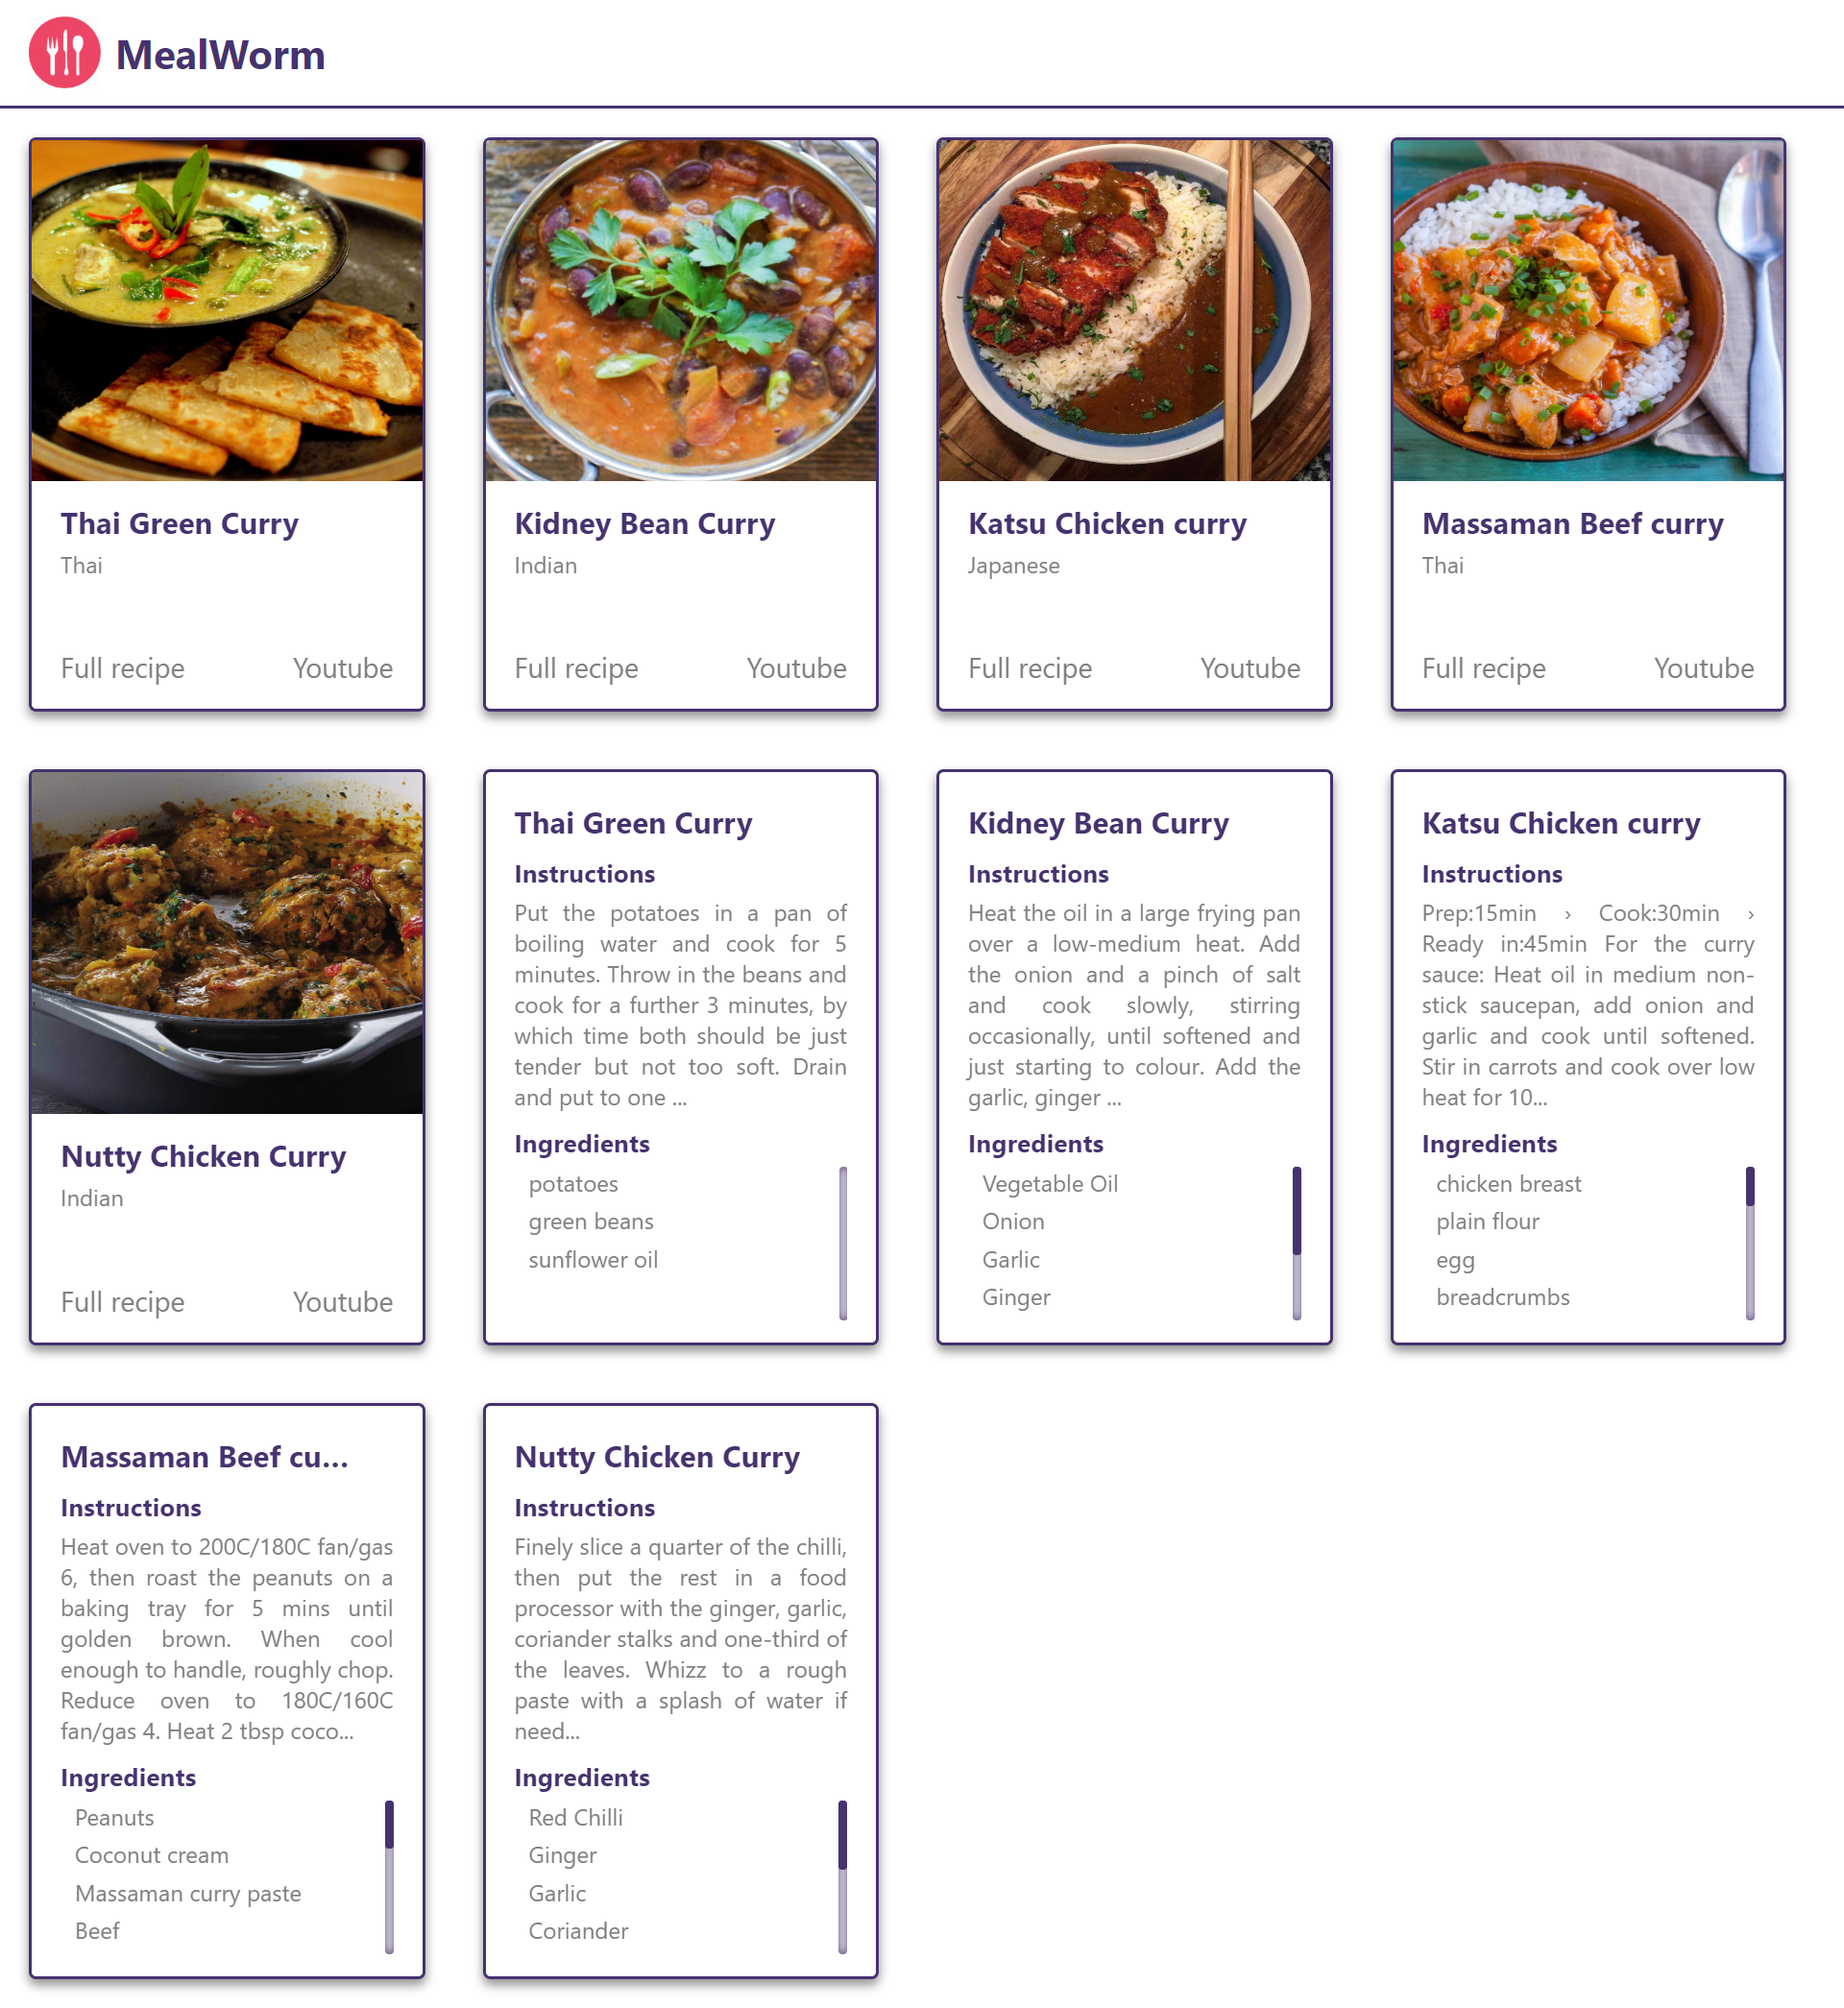
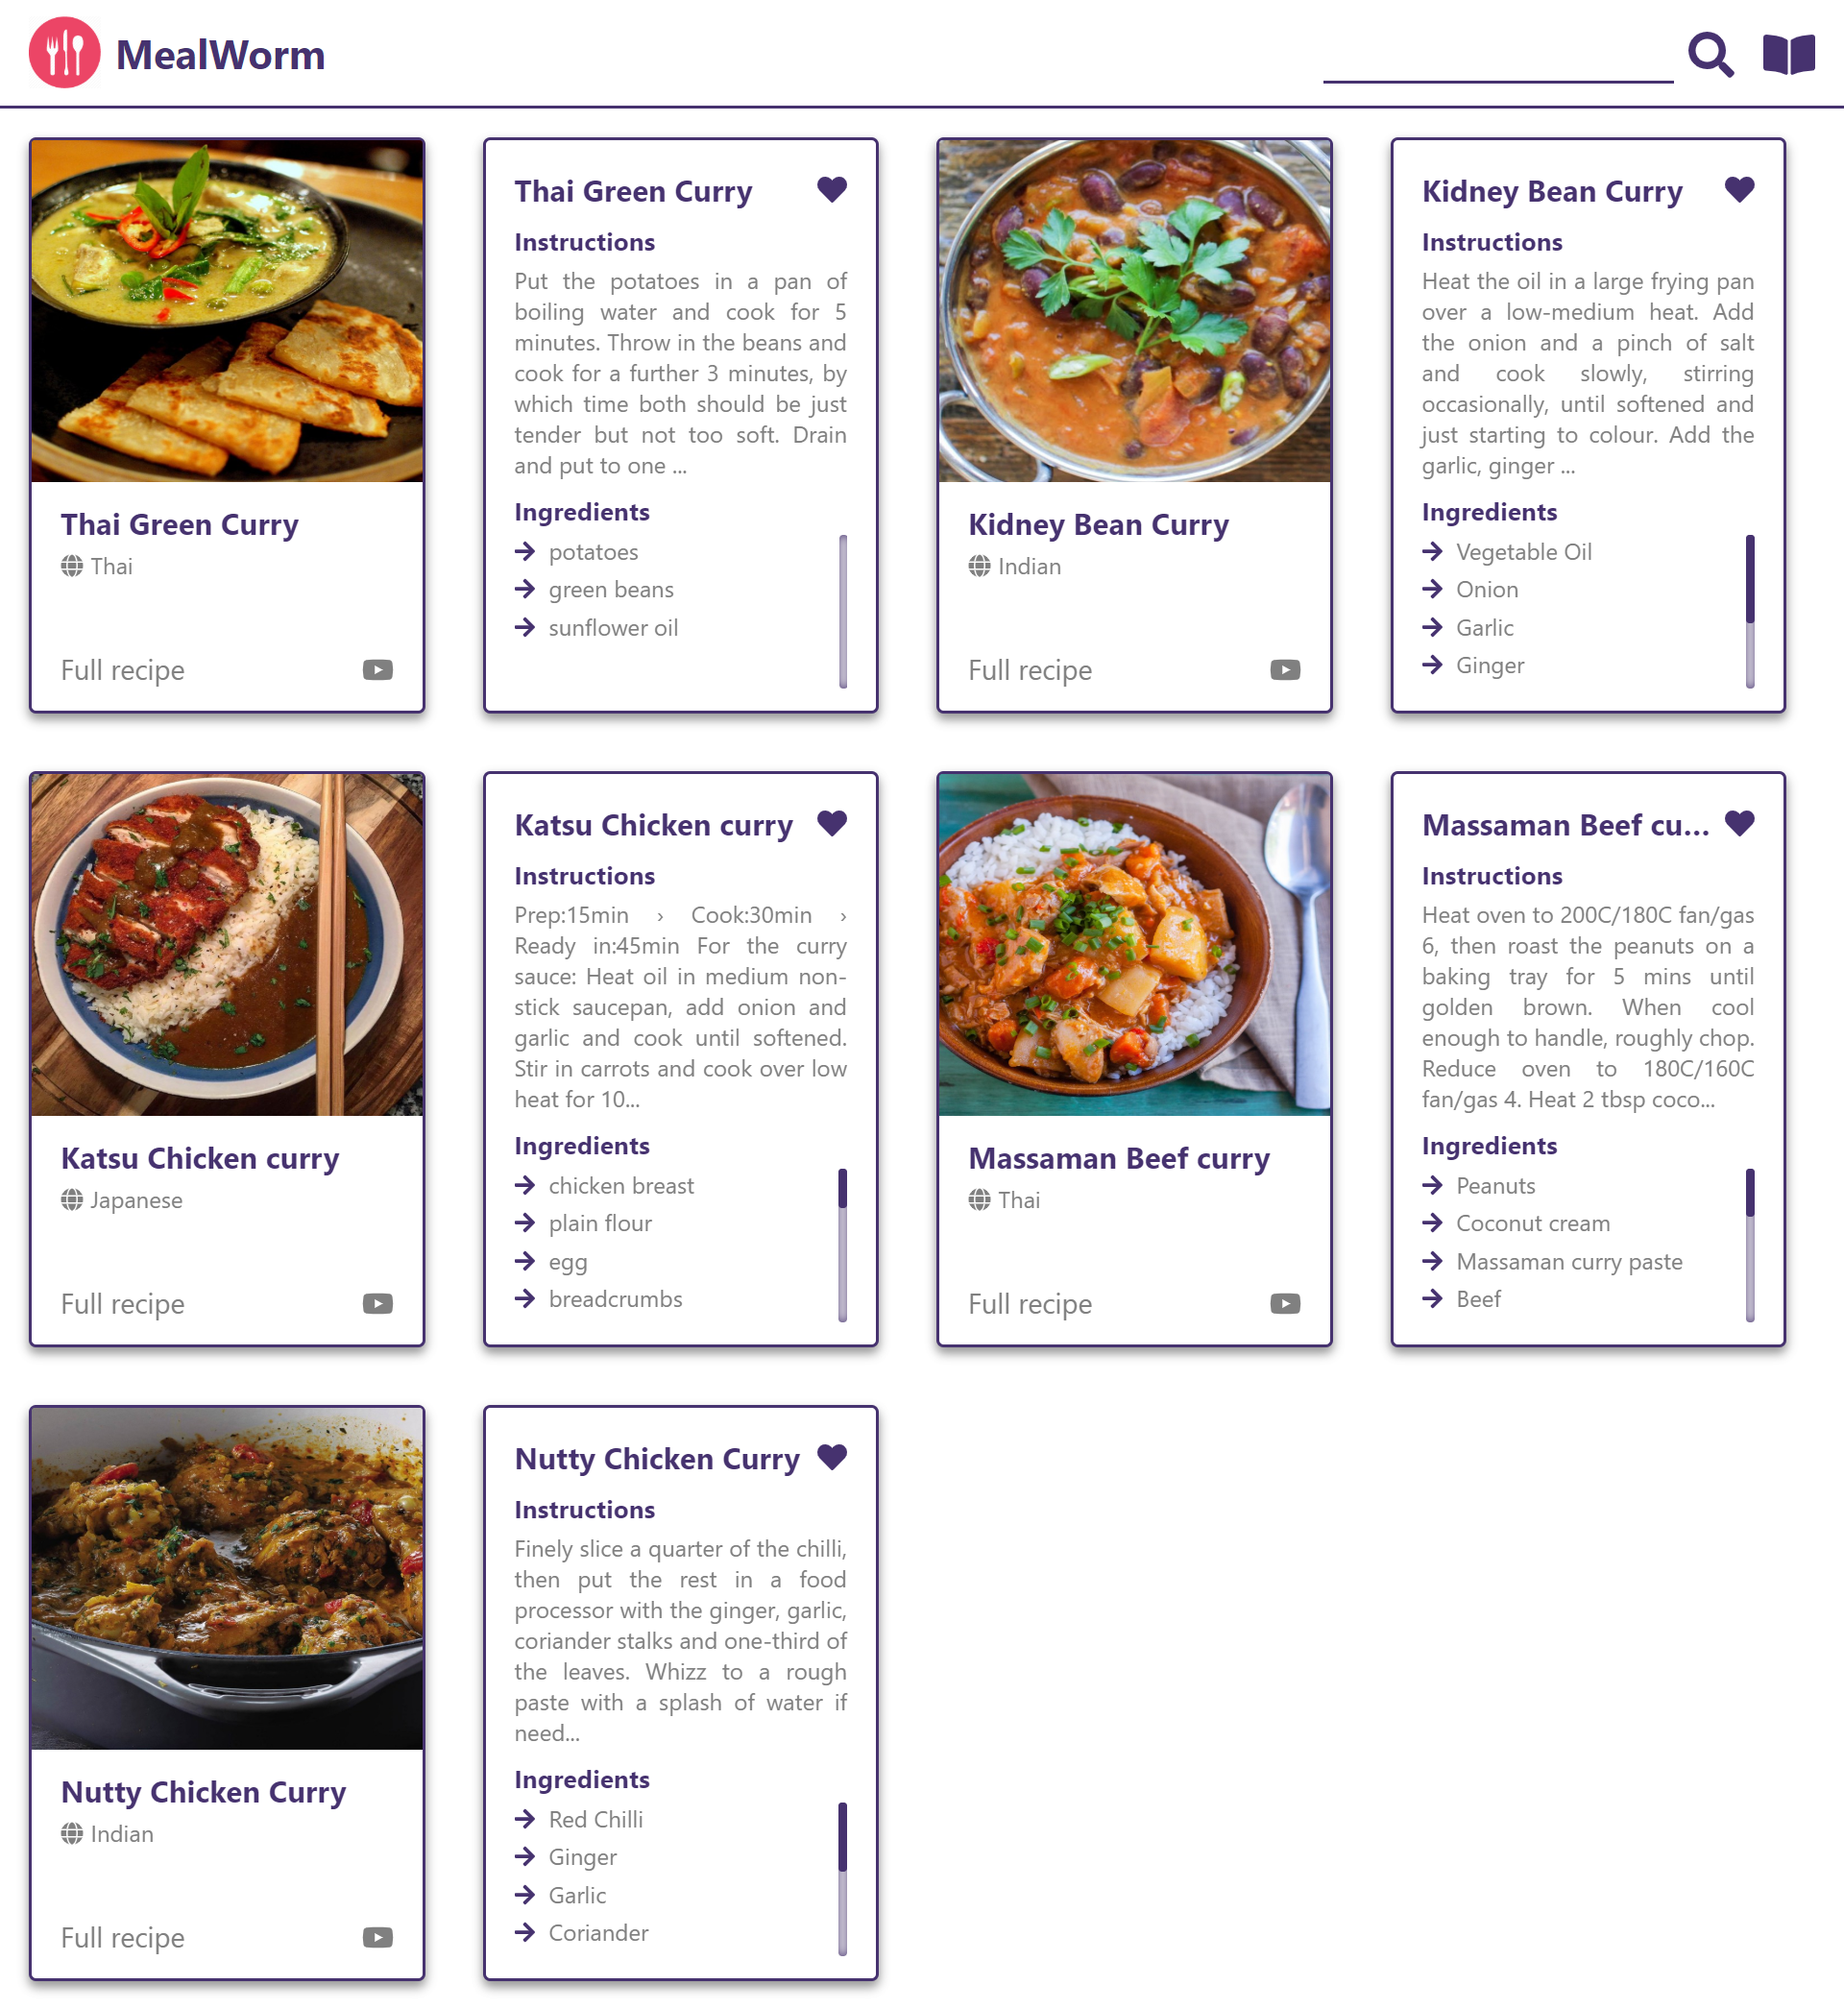
Branch updated and comps functional

diff --git a/src/components/CardBack/CardBack.jsx b/src/components/CardBack/CardBack.jsx
@@ -1,5 +1,7 @@
 import React from "react";
 import styles from "./CardBack.module.scss";
+import { FontAwesomeIcon } from "@fortawesome/react-fontawesome";
+import List from "../List";
 
 const CardBack = (props) => {
   const shortenInstructions = (instructions) =>
@@ -7,13 +9,23 @@ const CardBack = (props) => {
       ? instructions
       : instructions.substring(0, 200) + "...";
 
+  // Options for heart icon are:
+  // SOLID HEART: ["fas", "heart"]
+  // OPEN HEART: ["far", "heart"]
+
   const { ingredients, strMeal, strInstructions } = props.recipe;
   return (
     <section className={styles.cardBack}>
+      <span className={styles.heart}>
+        <FontAwesomeIcon icon={["fas", "heart"]} />
+      </span>
       <h2>{strMeal}</h2>
       <h3>Instructions</h3>
       <p>{shortenInstructions(strInstructions)}</p>
       <h3>Ingredients</h3>
+      <div className={styles.list}>
+        <List items={ingredients} />
+      </div>
     </section>
   );
 };

diff --git a/src/components/SearchBar/SearchBar.module.scss b/src/components/SearchBar/SearchBar.module.scss
@@ -1,0 +1,41 @@
+@import "../../variables.scss";
+
+.search {
+  input {
+    height: 100%;
+    width: 100px;
+    vertical-align: top;
+    margin-right: $base-spacing * 2;
+    font-size: 15px;
+    // padding-left: $base-spacing;
+    border: none;
+    border-bottom: $primary-border;
+    color: $primary-color;
+
+    &:focus {
+      outline: none;
+      border-color: $secondary-color;
+      color: $secondary-color;
+    }
+
+    &::placeholder {
+      color: $tertiary-text;
+    }
+  }
+
+  .fa {
+    &:hover {
+      cursor: pointer;
+      color: $secondary-color;
+    }
+  }
+}
+
+@media only screen and (min-width: 768px) {
+  .search {
+    input {
+      width: unset;
+      font-size: 20px;
+    }
+  }
+}

diff --git a/src/components/SearchBar/SearchBar.jsx b/src/components/SearchBar/SearchBar.jsx
@@ -1,0 +1,19 @@
+import React, { Component } from "react";
+import styles from "./SearchBar.module.scss";
+import { FontAwesomeIcon } from "@fortawesome/react-fontawesome";
+
+class SearchBar extends Component {
+  render() {
+    const { placeholder } = this.props;
+    return (
+      <div className={styles.search}>
+        <input type="text" placeholder={placeholder} />
+        <span className={styles.fa}>
+          <FontAwesomeIcon icon="search" />
+        </span>
+      </div>
+    );
+  }
+}
+
+export default SearchBar;

diff --git a/src/components/NavBar/NavBar.jsx b/src/components/NavBar/NavBar.jsx
@@ -1,6 +1,7 @@
 import React from "react";
 import styles from "./NavBar.module.scss";
 import logo from "../../assets/plate-secondary.png";
+import SearchBar from "../SearchBar";
 
 const NavBar = () => {
   return (
@@ -8,6 +9,9 @@ const NavBar = () => {
       <div className={styles.navFlex}>
         <img src={logo} alt="FoodWorm logo" />
         <h1>MealWorm</h1>
+      </div>
+      <div className={styles.searchPanel}>
+        <SearchBar />
       </div>
     </nav>
   );

diff --git a/src/data/fa-library.js b/src/data/fa-library.js
@@ -1,0 +1,13 @@
+import { library } from "@fortawesome/fontawesome-svg-core";
+
+import { faHeart as faOpenHeart } from "@fortawesome/free-regular-svg-icons";
+import {
+    faSearch,
+    faHeart
+} from "@fortawesome/free-solid-svg-icons";
+
+export default library.add(
+    faSearch,
+    faHeart,
+    faOpenHeart,
+);

diff --git a/src/App.jsx b/src/App.jsx
@@ -4,6 +4,7 @@ import CardFront from "./components/CardFront";
 import CardBack from "./components/CardBack";
 import NavBar from "./components/NavBar";
 
+import library from "./data/fa-library";
 import recipes from "./data/recipes";
 
 const App = () => {

diff --git a/src/components/SearchBar/SearchBar.test.js b/src/components/SearchBar/SearchBar.test.js
@@ -1,0 +1,9 @@
+import React from "react";
+import { SearchBar } from "./SearchBar";
+
+describe("SearchBar tests", () => {
+  let component;
+
+  beforeEach(() => {
+  })
+});

diff --git a/src/components/SearchBar/index.js b/src/components/SearchBar/index.js
@@ -1,0 +1,2 @@
+import SearchBar from "./SearchBar.jsx";
+export default SearchBar

diff --git a/README.md b/README.md
@@ -1,15 +1,14 @@
-# CODE ALONG NOTES
+# CHALLENGE NOTES
 
-Add font awesome library and relevant icons to our React app
+- Add the cookbook icon into the NavBar component
+- Add the globe icon to the CardBack component
+- Add the arrow right to each list item in the list component
+- Add the Youtube icon to the CardBack component (read around for including brand icons)
 
-## STEPS
+## Solution screenshot
 
-- Go to the docs at https://www.npmjs.com/package/@fortawesome/react-fontawesome
-- Add relevant packages as dependencies
-- Create library in data/fa-library.js
-- Create SearchBar component and use the search icon next to the input field
-- Add solid heart icon to CardBack (show how solid and hollow versions of one icon are implemented)
+![solution](./src/assets/solution.png)
 
-## Challenge branch
+## Completed branch
 
-font-awesome-challenge
+9-state-ca
